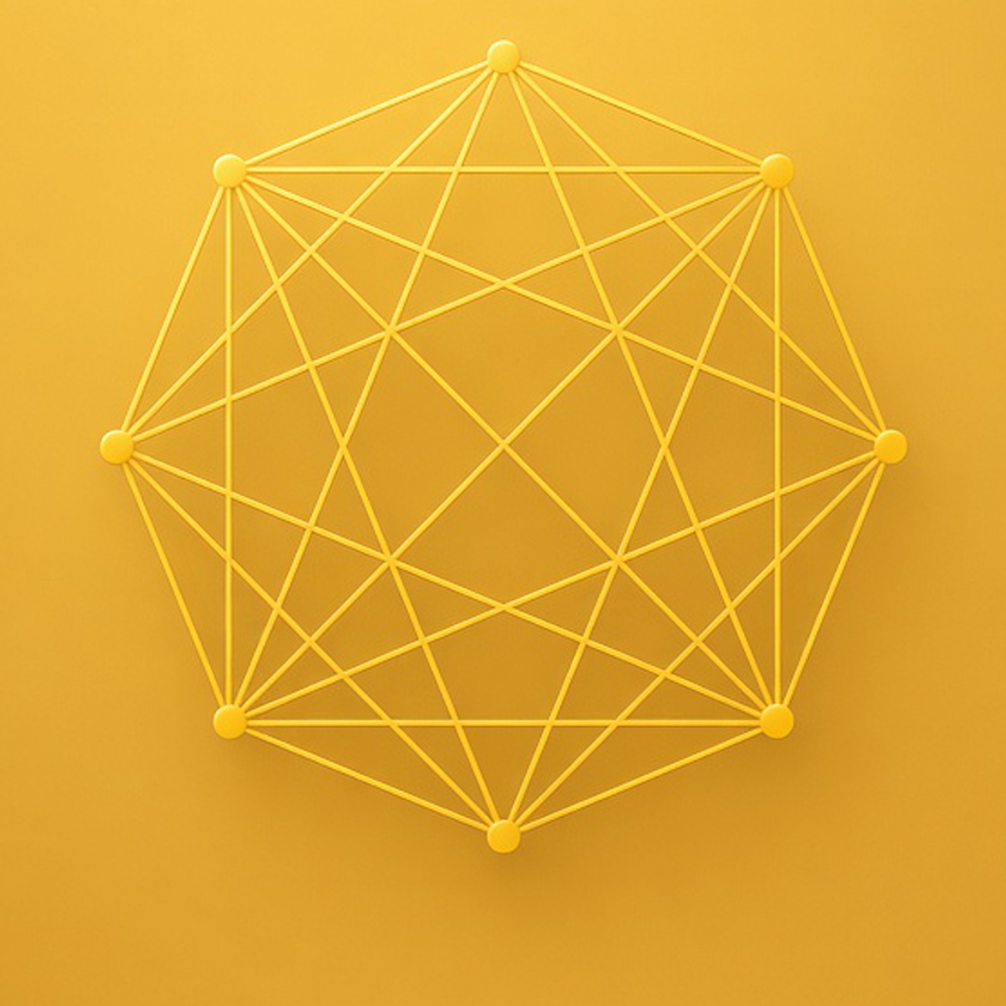
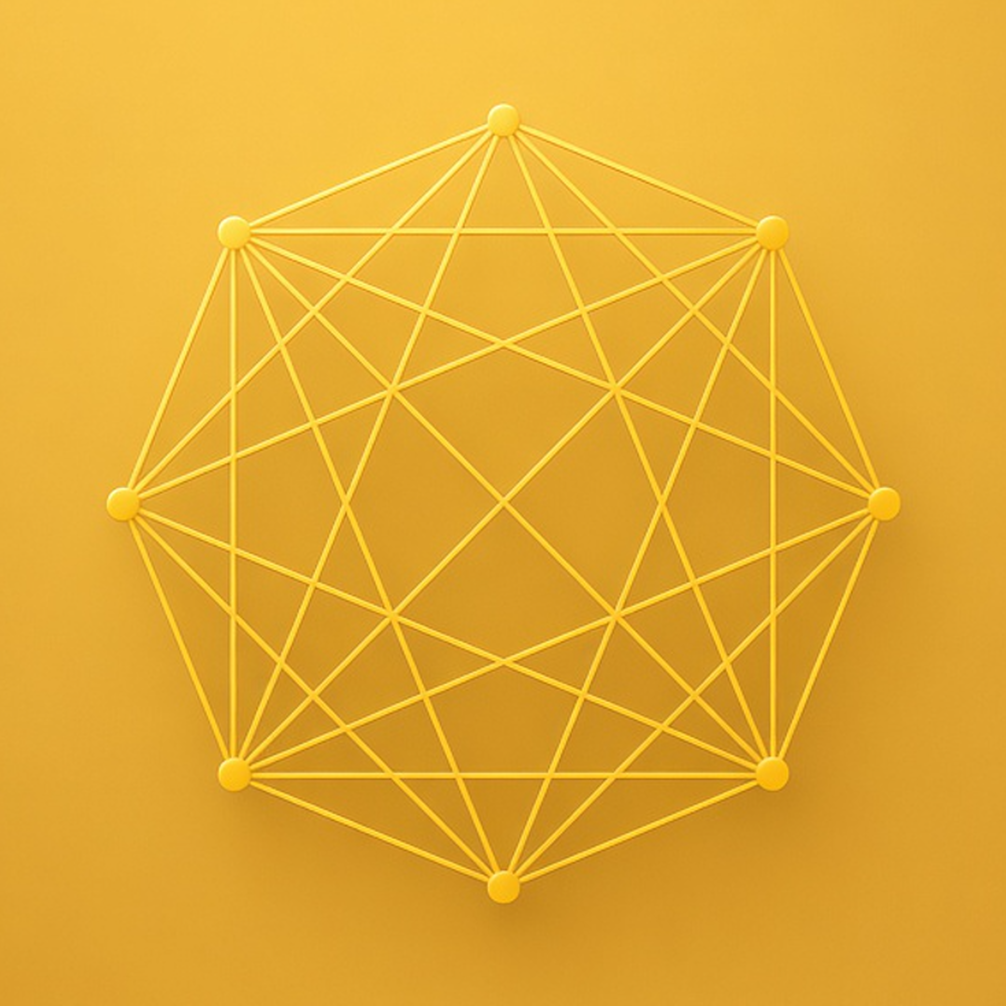
fix(brand): centre the crops on the graph, and flatten the Android splash
The mark sat high in every icon — 31px of margin above it and 134px
below. The centre came from a brightness threshold, which misses the
figure's top edge, where the cords are thin and their lift is small: it
put the centre at fy 0.5188 instead of 0.5027, and that 0.016 is exactly
the shift. It is measured with a small-radius high pass now, which
isolates thin cords from the smooth cast shadow and agrees to three
decimal places across every threshold and radius tried. Every icon now
measures fx 0.500, fy 0.500 — the crosshair falls where the middle chords
cross.

Android's splash is the flat vector mark on the flat background colour.
It could never be a crop of the plate: the system splash is a centred
icon over a solid colour, so a cropped tile showed its edges against that
colour, and feathering those edges came back from the bundle as a dark
ring because the pipeline flattens alpha. Flat art on flat colour has
neither failure mode, and the geometry still comes from icon.svg, so it
is the same graph as everything else — centred by construction rather
than by measurement.

diff --git a/scripts/render-svg-mark.py b/scripts/render-svg-mark.py
@@ -1,0 +1,54 @@
+#!/usr/bin/env python3
+"""
+Render the flat vector mark onto a flat plate — the Android splash icon.
+
+    render-svg-mark.py OUT.png SIZE BACKGROUND CORD [MARK_SHARE]
+
+Android's splash cannot be the photographic plate: since Android 12 the system
+splash is a centred icon over a flat background colour, and expo's pipeline
+flattens transparency, so a crop of the plate showed its edges and a feathered
+one came back as a dark ring. Flat vector art on the flat colour has neither
+problem — there is no gradient to mismatch and no alpha to lose.
+
+Geometry comes from assets/images/icon.svg, so this mark is the same graph as
+everything else, centred by construction rather than by measurement.
+"""
+import re
+import sys
+from pathlib import Path
+
+from PIL import Image, ImageDraw
+
+SS = 4  # supersample; every edge here is a diagonal
+
+out_path, size, bg_hex, cord_hex = sys.argv[1], int(sys.argv[2]), sys.argv[3], sys.argv[4]
+share = float(sys.argv[5]) if len(sys.argv) > 5 else 0.62
+
+svg = (Path(__file__).resolve().parent.parent / "assets" / "images" / "icon.svg").read_text()
+box = float(re.search(r'viewBox="0 0 ([\d.]+)', svg).group(1))
+lines = [tuple(map(float, m)) for m in re.findall(
+    r'<line x1="([\d.]+)" y1="([\d.]+)" x2="([\d.]+)" y2="([\d.]+)"', svg)]
+nodes = [tuple(map(float, m)) for m in re.findall(
+    r'<circle cx="([\d.]+)" cy="([\d.]+)" r="([\d.]+)"', svg)]
+
+rgb = lambda h: tuple(int(h.lstrip("#")[i:i + 2], 16) for i in (0, 2, 4))
+img = Image.new("RGB", (size * SS, size * SS), rgb(bg_hex))
+draw = ImageDraw.Draw(img)
+
+span = size * SS * share
+k = span / box
+ox = oy = (size * SS - span) / 2
+place = lambda x, y: (ox + x * k, oy + y * k)
+
+# Proportions measured off the brand plate: cords 0.0068 of the mark's span,
+# node beads 0.0248 of it.
+width = max(1, round(span * 0.0068))
+dot = max(width, round(span * 0.0124))
+for x1, y1, x2, y2 in lines:
+    draw.line([place(x1, y1), place(x2, y2)], fill=rgb(cord_hex), width=width)
+for cx, cy, _ in nodes:
+    px, py = place(cx, cy)
+    draw.ellipse([px - dot, py - dot, px + dot, py + dot], fill=rgb(cord_hex))
+
+img.resize((size, size), Image.LANCZOS).save(out_path)
+print(f"  {Path(out_path).name}  {size}x{size} (flat SVG mark on {bg_hex})")
